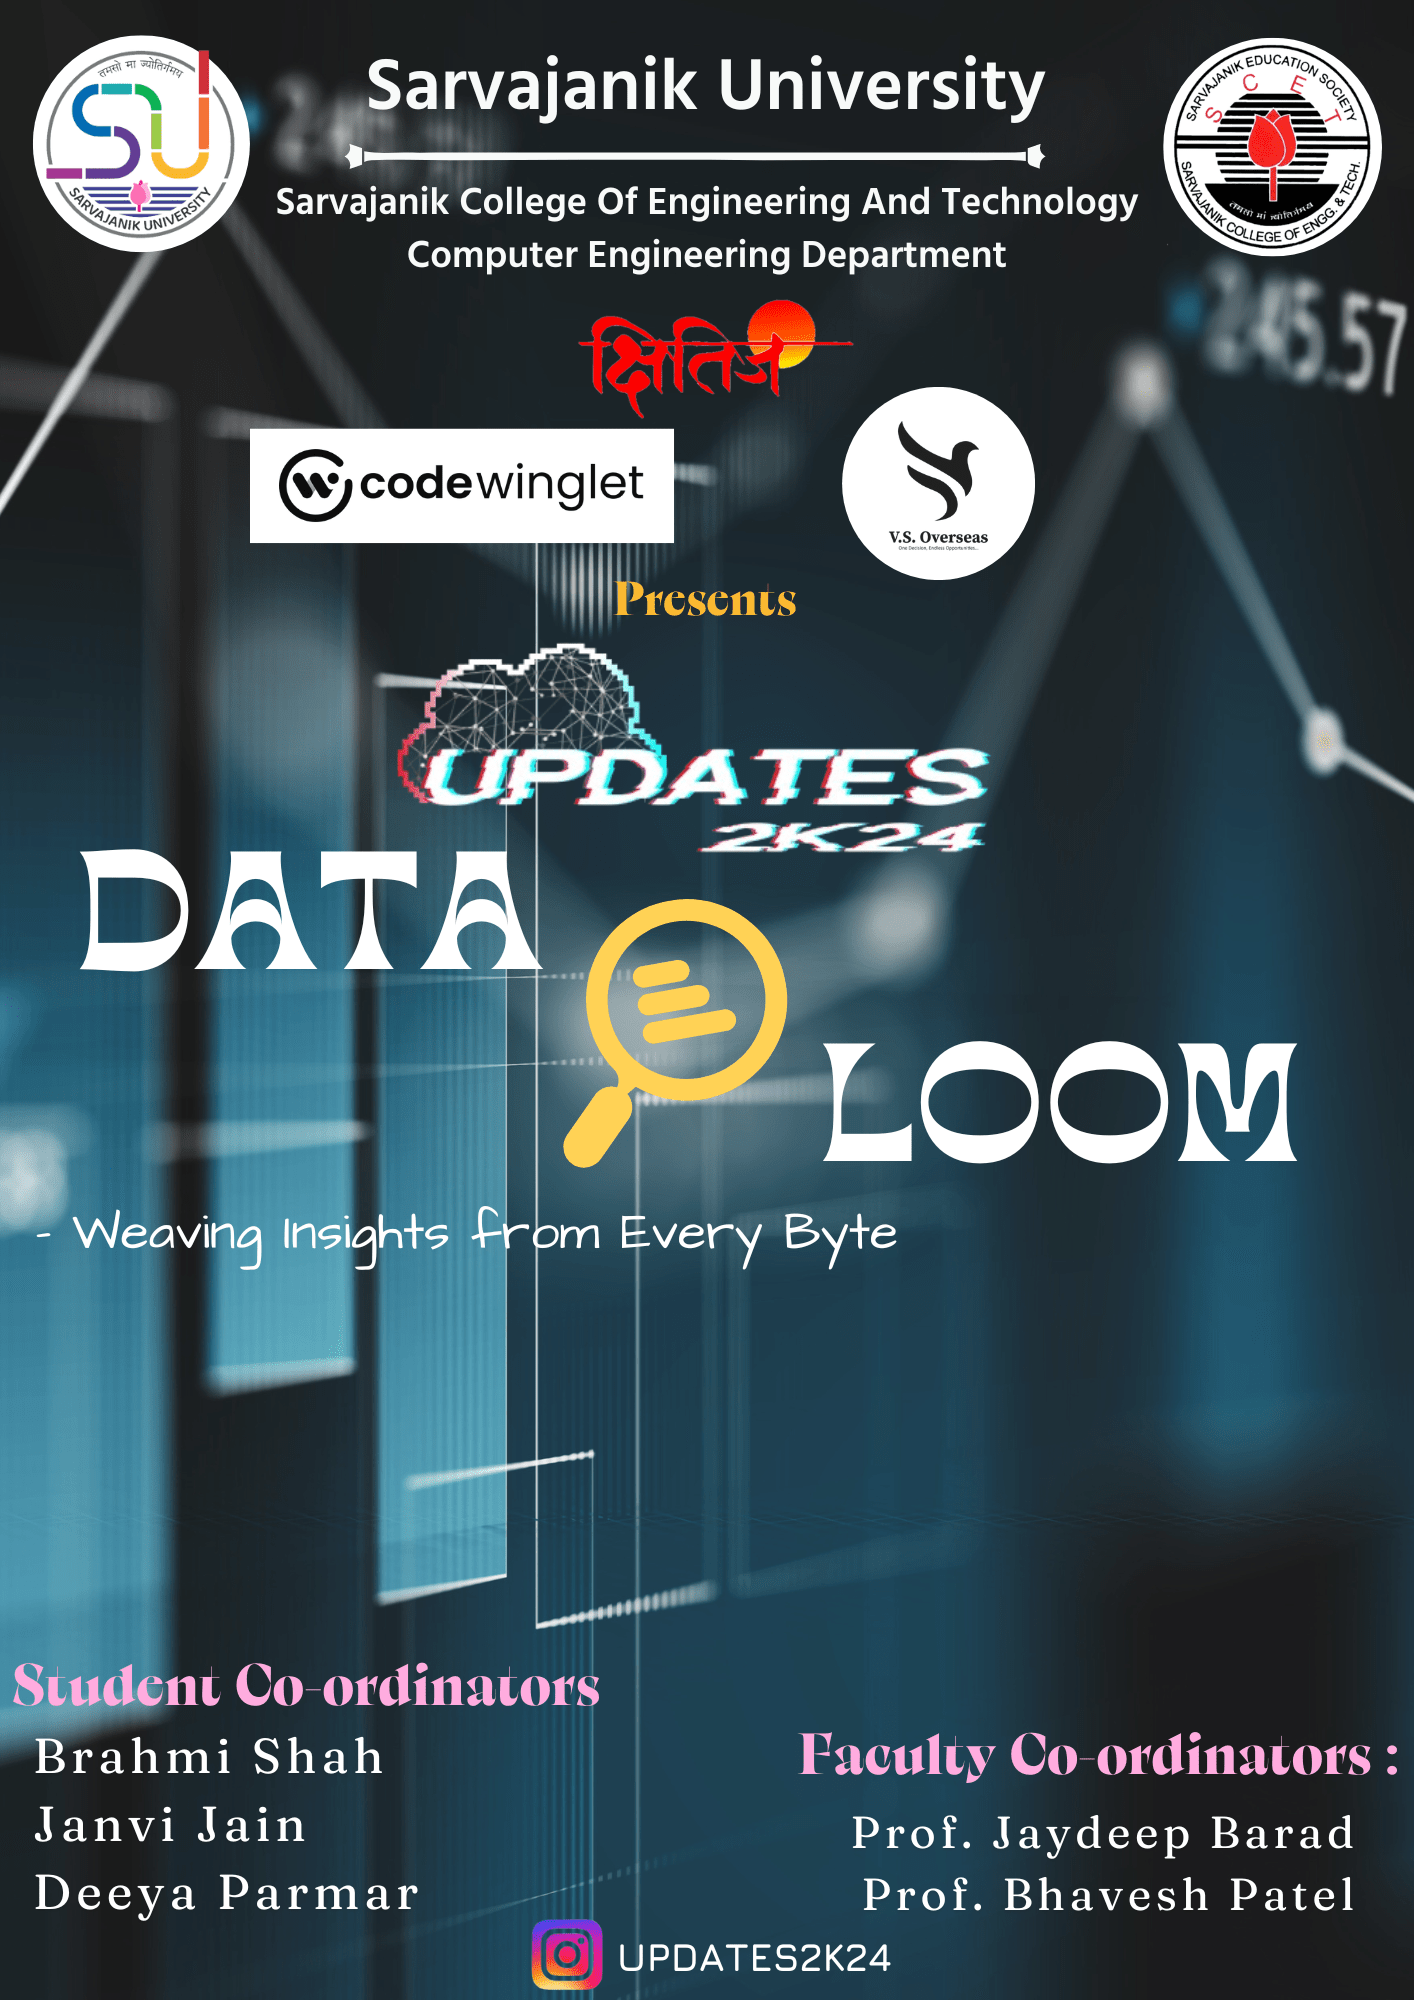
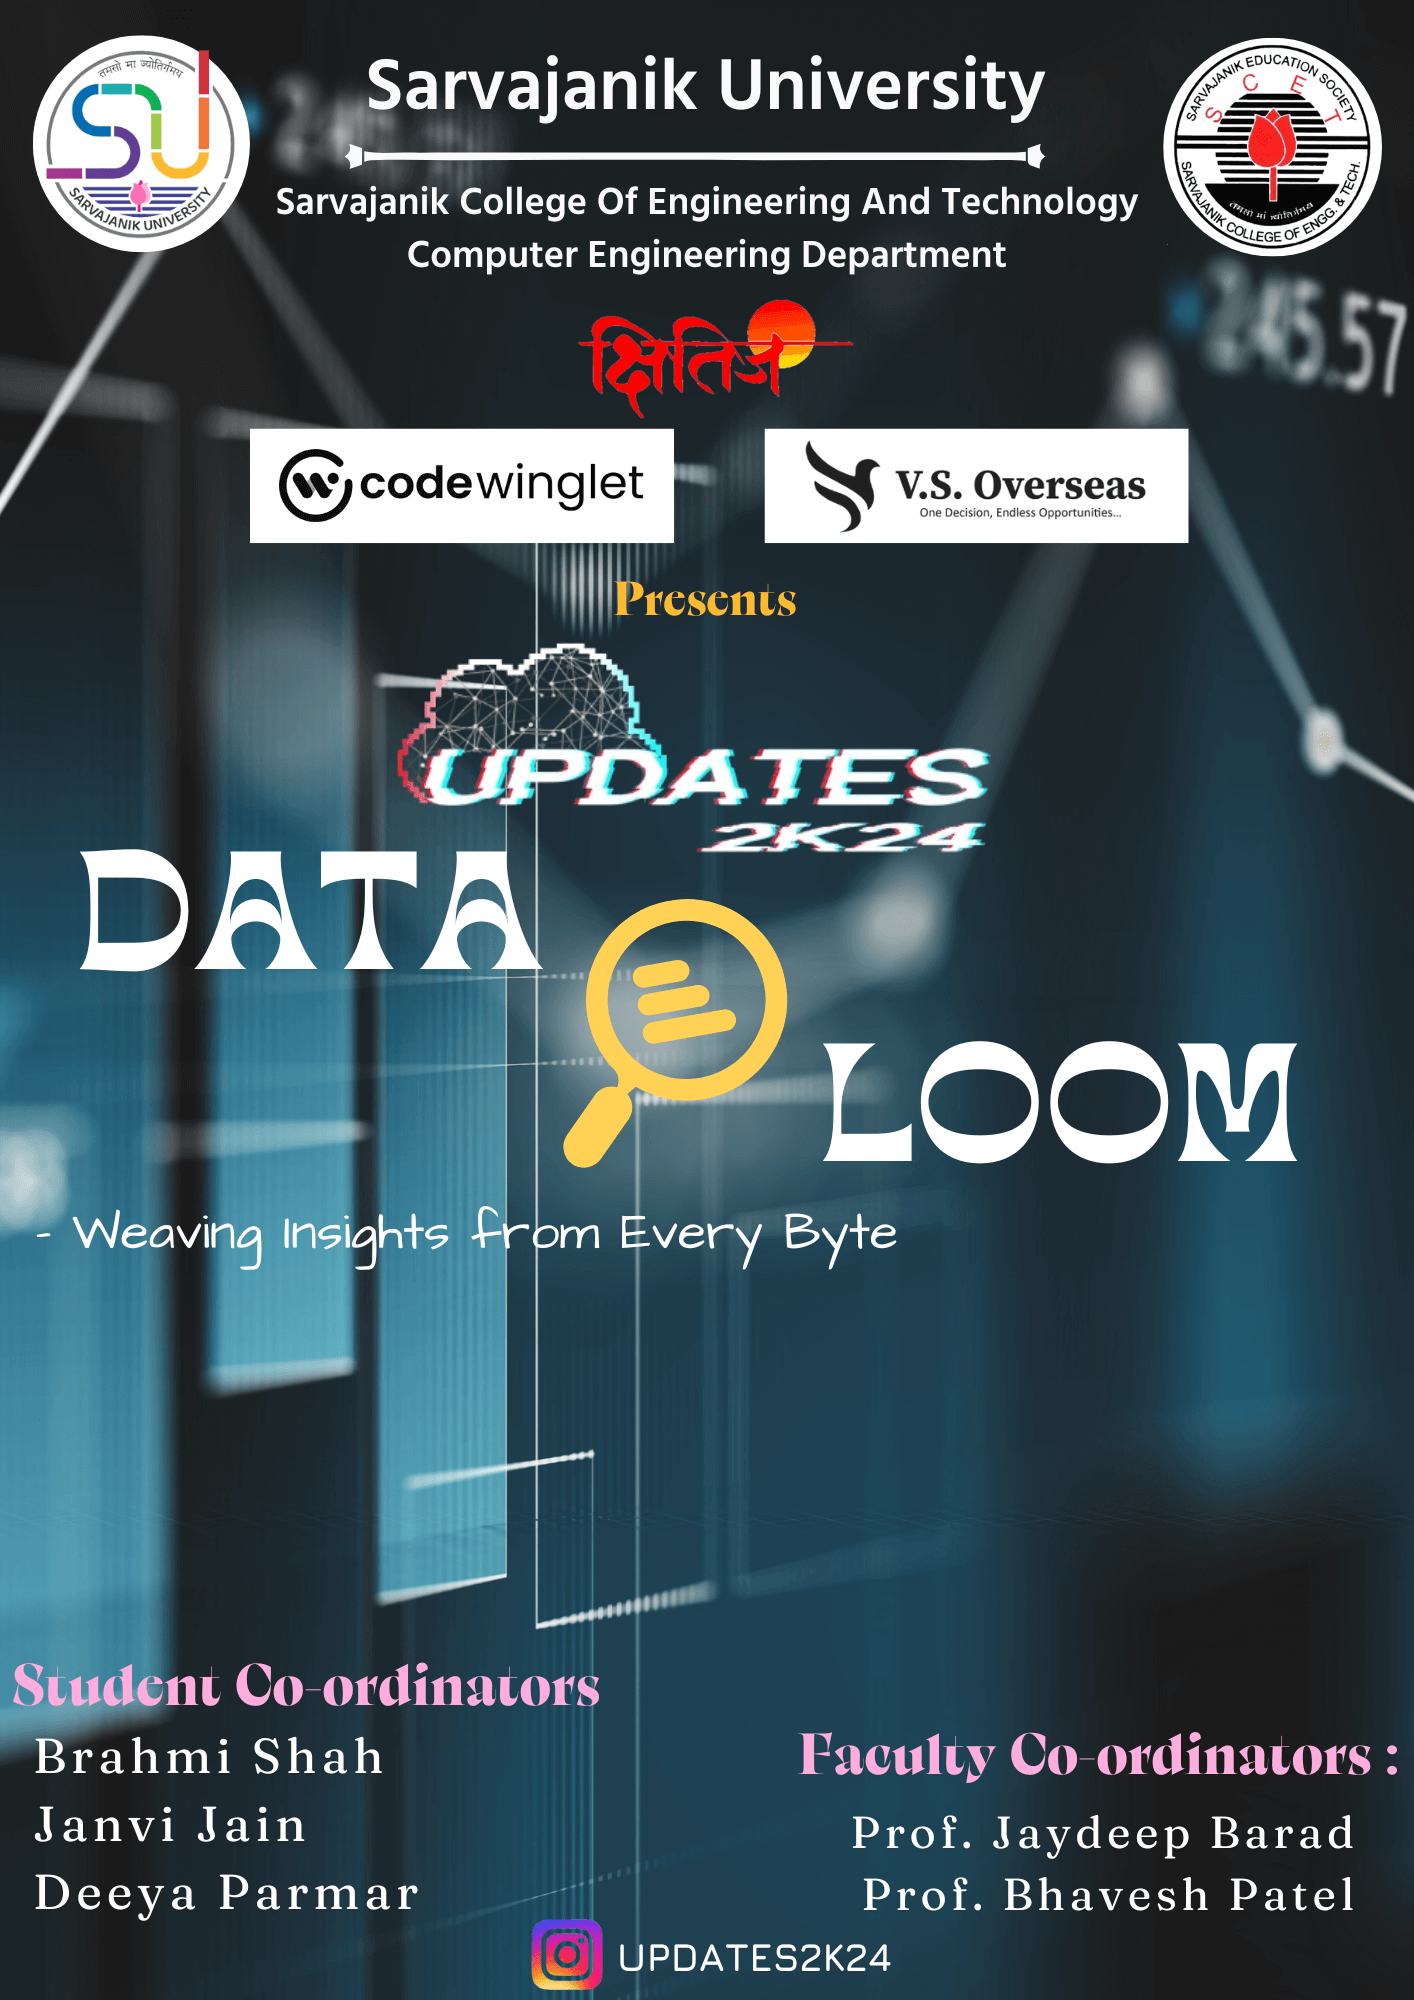
adding new poster + better SEO for homepage

Changed region(s): [[0.529, 0.186, 0.8402, 0.31], [0.3734, 0.961, 0.4356, 1.0], [0.529, 0.155, 0.5912, 0.186]]

diff --git a/src/app/(auth)/signin/page.tsx b/src/app/(auth)/signin/page.tsx
@@ -2,12 +2,13 @@ import Image from "next/image";
 import Link from "next/link";
 import SiginInButton from "./_components/SiginInButton";
 import GradientAnimatedText from "@/components/GradientAnimatedText";
+import updatesPoster from "@/assets/updates-logo.gif";
 
 function Signin() {
   return (
-    <div className="w-full relative lg:grid lg:min-h-[600px] lg:grid-cols-2 xl:min-h-[800px] pt-28 md:pt-0">
-      <div className="flex relative items-center justify-center py-12">
-        <div className="w-[400px] -z-10 sm:w-[600px] h-[600px] absolute -translate-x-1/2 -translate-y-1/2 left-1/2 top-1/2 rounded-full blur-3xl bg-gradient-to-br from-slate-900 to-violet-900 opacity-30"></div>
+    <div className="w-full relative lg:grid lg:min-h-screen lg:grid-cols-5">
+      <div className="flex max-lg:h-screen relative items-center justify-center py-12 lg:col-span-2">
+        <div className="w-[300px] -z-10 sm:w-[600px] h-[600px] absolute -translate-x-1/2 -translate-y-1/2 left-1/2 top-1/2 rounded-full blur-3xl bg-gradient-to-br from-slate-900 to-violet-900 opacity-30"></div>
         <div className="mx-auto grid w-[350px] gap-6">
           <div className="grid gap-2 text-center">
             <GradientAnimatedText className="font-bold tracking-tighter sm:text-3xl xl:text-4xl/none  text-center pt-4 pb-2">
@@ -27,13 +28,13 @@ function Signin() {
           </div>
         </div>
       </div>
-      <div className="hidden bg-muted lg:block">
+      <div className="hidden lg:block col-span-3">
         <Image
-          src="/placeholder.svg"
+          src={updatesPoster}
           alt="Image"
           width="1920"
           height="1080"
-          className="h-full w-full object-cover dark:brightness-[0.2] dark:grayscale"
+          className="h-full w-full object-center object-cover"
         />
       </div>
     </div>

diff --git a/src/app/page.tsx b/src/app/page.tsx
@@ -10,14 +10,14 @@ const ScheduleSection = dynamic(() => import("@/components/ScheduleSection"));
 export const metadata: Metadata = {
   title: "Updates 2k24",
   description:
-    "Updates 2k24 is The Official Tech-event of Department of Computer engineering, SCET. Be a part of this Event and transition from Floppy To Cloud.",
+    "Updates 2k24 - The Official Tech Fest of the Computer Engineering Department at SCET. Get ready to dive into exciting events, where we go from Floppy to Cloud, celebrating tech in every way!",
   openGraph: {
     title: "Updates 2k24",
     description:
-      "Updates 2k24 is The Official Tech-event of Department of Computer engineering, SCET. Be a part of this Event and transition from Floppy To Cloud.",
+      "Updates 2k24 - The Official Tech Fest of the Computer Engineering Department at SCET. Get ready to dive into exciting events, where we go from Floppy to Cloud, celebrating tech in every way!",
     images: [
       {
-        url: "/path-to-your-og-image.jpg",
+        url: "/updates-poster.png",
         width: 1200,
         height: 630,
         alt: "Updates 2k24 poster",
@@ -30,8 +30,8 @@ export const metadata: Metadata = {
     card: "summary_large_image",
     title: "Updates 2k24",
     description:
-      "Updates 2k24 is The Official Tech-event of Department of Computer engineering, SCET. Be a part of this Event and transition from Floppy To Cloud.",
-    images: ["/path-to-your-twitter-image.jpg"], // Replace with the path to your Twitter card image
+      "Updates 2k24 - The Official Tech Fest of the Computer Engineering Department at SCET. Get ready to dive into exciting events, where we go from Floppy to Cloud, celebrating tech in every way!",
+    images: ["/updates-poster.png"],
   },
 };
 export default async function Page() {

diff --git a/src/app/user-details/page.tsx b/src/app/user-details/page.tsx
@@ -40,17 +40,19 @@ const Page = async (props: Props) => {
       <GradientAnimatedText className="font-bold tracking-tighter text-3xl xl:text-4xl/none ">
         Let&apos;s Get You Started
       </GradientAnimatedText>
-      <div className="mx-auto flex flex-col justify-center items-center mt-6">
-        <Image
-          src={session.user.image || ""}
-          alt={session.user.name || "user"}
-          height={75}
-          width={75}
-          className="rounded-full"
-        />
-        <div className="mt-2 text-lg">{session.user.name}</div>
-      </div>
       <BlurFade inView className="my-8 mx-8">
+        <div className="mx-auto flex flex-col justify-center items-center mt-6">
+          <Image
+            src={session.user.image || ""}
+            alt={session.user.name || "user"}
+            height={75}
+            width={75}
+            className="rounded-full"
+          />
+          <div className="mt-2 text-lg">{session.user.name}</div>
+        </div>
+      </BlurFade>
+      <BlurFade inView delay={0.2} className="my-8 mx-8">
         <DetailForm userDetails={userData} />
       </BlurFade>
     </div>
